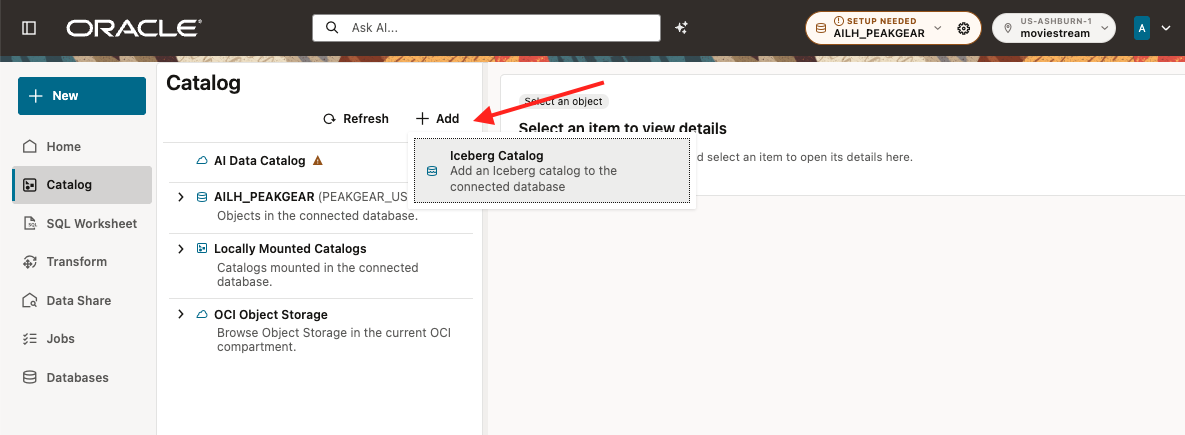
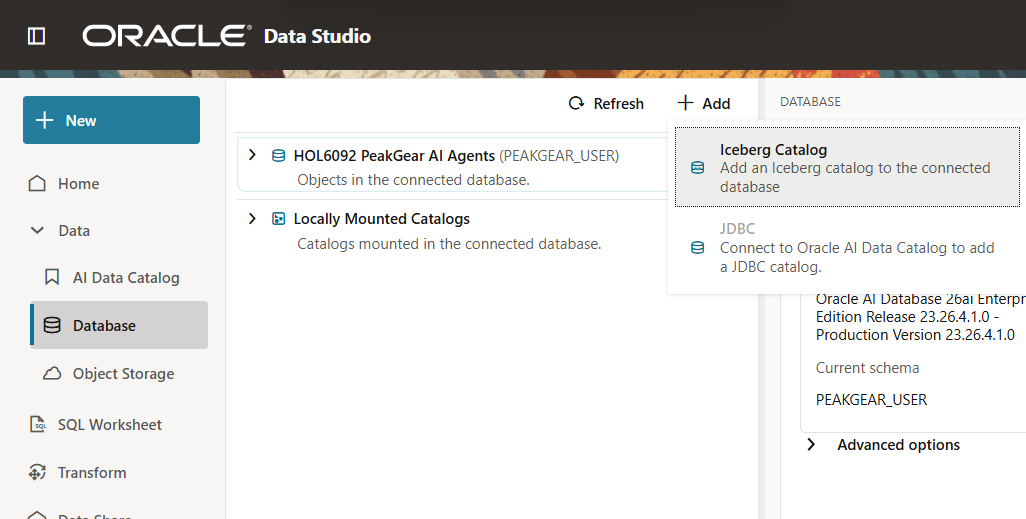
HOL6092: update Data Studio navigation and learner screenshots (#566)
HOL6092: align learner guide with current Data Studio UI

diff --git a/ai-over-lakehouse/documentation/tests/test_workshop_package.py b/ai-over-lakehouse/documentation/tests/test_workshop_package.py
@@ -243,7 +243,14 @@ class WorkshopPackageTests(unittest.TestCase):
     def test_source_connection_finishes_with_both_credentials_and_add(self):
         text = (ROOT / 'connect-sources/connect-sources.md').read_text(encoding="utf-8")
         self.assertIn('## Task 2: Connect the Databricks Unity Catalog', text)
-        self.assertIn('**Bucket credentials**. Click **Add**', text)
+        task = text.split('## Task 2: Connect the Databricks Unity Catalog', 1)[1]
+        task = task.split('### SQL reference', 1)[0]
+        self.assertIn('**Data**', task)
+        self.assertIn('**Add > Iceberg Catalog**', task)
+        self.assertIn('**Bucket credentials**. Click **Test**', task)
+        self.assertIn('before clicking **Add**', task)
+        self.assertIn('Object storage\ndata access was not tested', task)
+        self.assertIn("Task 3's sample queries verify data access", task)
         self.assertIn('**PeakGear - Live source checks**', text)
         self.assertIn('**PeakGear - Local snapshots**', text)
         self.assertIn('query data live where it already resides', text)

diff --git a/ai-over-lakehouse/documentation/tests/test_unity_sql_reference.py b/ai-over-lakehouse/documentation/tests/test_unity_sql_reference.py
@@ -75,7 +75,7 @@ class UnitySqlReferenceTests(unittest.TestCase):
             "wait for the worksheet's completion message",
             "Task 1",
             "sample queries in Task 3 confirm read access",
-            "After a timeout, inspect **Catalog**",
+            "After a timeout, inspect **Data > Database**",
             "Do not drop or unmount objects to force a retry",
         ):
             with self.subTest(phrase=phrase):

diff --git a/ai-over-lakehouse/connect-sources/connect-sources.md b/ai-over-lakehouse/connect-sources/connect-sources.md
@@ -50,11 +50,14 @@ lists the prepared names and public connection settings.
 
 ## Task 2: Connect the Databricks Unity Catalog
 
-In **Catalog**, click **Add**, then choose **Iceberg catalog**.
+In the left navigation, expand **Data**, select **Database**, then click
+**Add > Iceberg Catalog**. **Database** is the connected database's data
+browser; **Databases** is the separate page used to manage connections in Lab 1.
 
-![In Catalog, click Add and choose Iceberg catalog.](images/add-iceberg-catalog.png)
+![Data Studio Data > Database navigation with Add > Iceberg Catalog selected.](images/add-iceberg-catalog.png)
 
-Enter the public catalog settings and select the existing credentials:
+The form opens with defaults. Replace the example catalog name and type with
+the values below, enter the public endpoint, and select the existing credentials:
 
 | Field | Value |
 |---|---|
@@ -64,15 +67,32 @@ Enter the public catalog settings and select the existing credentials:
 | Iceberg catalog credentials | Select DBX&#95;PEAKGEAR&#95;OAUTH |
 | Bucket credentials | Select ADLS&#95;PEAKGEAR&#95;DATA |
 
-![Enter DBX&#95;UNITY&#95;PEAKGEAR, select Unity, paste the public endpoint, and select the provisioned catalog and bucket credentials.](images/mount-iceberg-catalog.png)
+![Add Iceberg Catalog form before configuration, showing the default name ICEBERG_CATALOG and type Oracle; replace these using the field table above.](images/mount-iceberg-catalog.png)
+
+The screenshot shows the form **before configuration**. For this workshop,
+use **DBX&#95;UNITY&#95;PEAKGEAR** and **Unity**, not the displayed defaults.
 
 Select DBX&#95;PEAKGEAR&#95;OAUTH in **Iceberg catalog credentials**, then select
-ADLS&#95;PEAKGEAR&#95;DATA in **Bucket credentials**. Click **Add**.
+ADLS&#95;PEAKGEAR&#95;DATA in **Bucket credentials**. Click **Test** and wait
+for the result before clicking **Add**.
+
+![Successful catalog metadata test with the notice that Object storage data access was not tested.](images/test-iceberg-catalog.png)
+
+The expected message is **Catalog metadata access test passed. Object storage
+data access was not tested.** This confirms access to catalog metadata, not
+to the underlying Iceberg files. Task 3's sample queries verify data access.
+If Test fails, keep the exact error and ask the instructor before adding the catalog.
+
+After a successful test, click **Add** and wait for the catalog to appear in
+**Data > Database**.
 Expand **Locally Mounted Catalogs > DBX&#95;UNITY&#95;PEAKGEAR > ICEBERG > Tables**.
 You should see **PRODUCTS** and **DIGITAL&#95;CLICKSTREAM&#95;EVENTS**. Use the
 catalog's **Refresh** button only if the new connection or tables are not yet visible.
 
-![The successful DBX&#95;UNITY&#95;PEAKGEAR mount exposes the two PeakGear Iceberg tables.](images/connected-iceberg-tables.png)
+![Data > Database shows a mounted catalog and the ICEBERG > Tables section containing two tables; the screenshot uses the example name ICEBERG_CATALOG.](images/connected-iceberg-tables.png)
+
+The screenshot's **ICEBERG&#95;CATALOG** is an example name. Your mount must be
+**DBX&#95;UNITY&#95;PEAKGEAR**, as entered above, so the SQL in Task 3 can find it.
 
 ### SQL reference (not part of the lab)
 
@@ -138,22 +158,33 @@ END;
 </copy>
 ~~~
 
-After the block completes, refresh **Locally Mounted Catalogs** in **Catalog**
+After the block completes, refresh **Locally Mounted Catalogs** in **Data > Database**
 if needed and confirm DBX&#95;UNITY&#95;PEAKGEAR contains
 **ICEBERG → Tables → PRODUCTS** and **DIGITAL&#95;CLICKSTREAM&#95;EVENTS**.
 The sample queries in Task 3 confirm read access. Continue there after a
 successful mount or an already-existing-catalog message.
 
 If a provisioned credential is missing or SQL reports an error, keep the exact
-message and ask the instructor. After a timeout, inspect **Catalog** before
+message and ask the instructor. After a timeout, inspect **Data > Database** before
 trying again: the mount may already have completed. Do not drop or unmount
 objects to force a retry.
 
 ## Task 3: Prove the two live sources
 
-Open SQL Worksheet as PEAKGEAR&#95;USER and save a worksheet named
-**PeakGear - Live source checks**. Copy and run **each block separately**;
-Run SQL executes the current statement, not every statement in a pasted script.
+Open **SQL Worksheet** as PEAKGEAR&#95;USER. In the **Worksheets** tab, click
+**New** if needed. Open the worksheet's three-dot menu, select **Rename**, enter
+**PeakGear - Live source checks**, then click the **Save** (disk) icon in the
+editor toolbar. Save again after adding your SQL.
+
+![Worksheet three-dot menu with Rename selected and the Save disk icon in the editor toolbar.](images/rename-worksheet.png)
+
+Copy and run **each block separately**. The editor detects separate SQL
+statements and shows a triangular **Run SQL** button in the left gutter beside
+each one. Click the triangle beside the statement you want to execute, then
+wait for its **Query Result** before running the next. Multiple statements in
+the editor are not all executed by one statement's Run SQL button.
+
+![SQL Worksheet shows a separate Run SQL triangle beside each independent SQL statement.](images/run-sql-statement.png)
 
 ~~~sql
 <copy>
@@ -185,12 +216,13 @@ should contain data; if a query returns no rows or an error, ask the instructor
 to check the source before continuing. A sample does not prove product-key
 uniqueness; that check runs against the local product table before analytics.
 
-Create and save a second worksheet named **PeakGear - Local snapshots**.
+In **Worksheets**, click **New** and use the same **Rename** and **Save** steps
+to create a second worksheet named **PeakGear - Local snapshots**.
 Create the three raw, participant-owned tables by running
 **each block separately**. Each `CREATE TABLE AS SELECT` can take time while it
 copies source rows. Wait for the worksheet to report completion before starting
 the next block. If you are resuming on the same database and a table already
-exists, verify it in Catalog instead of recreating it. Do not replace a table
+exists, verify it in **Data Explorer** instead of recreating it. Do not replace a table
 after saving its annotations in Lab 4. If an older run left `*_RAW_V` views in
 the schema, leave them alone; this version uses the new `*_RAW_T` tables and
 requires fresh table annotations in Lab 4.
@@ -227,10 +259,17 @@ FROM customer_return_events@peakgear_operations_link;
 </copy>
 ~~~
 
-In Catalog, check **Tables** under PEAKGEAR&#95;USER for all three names. The
-tables are local copies at the time the statements ran; they do not refresh
-automatically. They do not yet add business definitions. Open **Sample Data**
-for each table and confirm that rows are present after creation completes.
+In SQL Worksheet, open the **Data Explorer** tab beside **Worksheets**. Set
+**Source** to **Database**, expand your connected database, then expand
+**PEAKGEAR&#95;USER > Tables**. Confirm that all three table names appear; use
+the **Refresh** icon if the list has not updated after creation.
+
+![SQL Worksheet Data Explorer with Source set to Database and all three local raw tables under PEAKGEAR_USER > Tables.](images/local-snapshot-tables.png)
+
+The tables are local copies at the time the statements ran; they do not refresh
+automatically. They do not yet add business definitions. In **Data > Database**,
+expand your database and **PEAKGEAR&#95;USER > Tables**, open each table's
+**Sample Data**, and confirm that rows are present after creation completes.
 Later labs use these local snapshots through Data Studio and the bounded MCP
 server. Before joining product labels, MCP checks the local product table for
 duplicate product keys. If duplicates are reported, ask the instructor to

diff --git a/ai-over-lakehouse/documentation/traceability.md b/ai-over-lakehouse/documentation/traceability.md
@@ -13,6 +13,7 @@ Trace workshop content and screenshots to retained sources and record outstandin
 | PeakGear lab source files | Technical sequence, object names, SQL, MCP checkpoints, and runtime gates. |
 | Owner-confirmed working Unity mount SQL, supplied October 5, 2026 | Original source for the public catalog endpoint and mount/read calls. The current learner flow reuses provisioned credentials. Protected values and the host ACL belong to provider provisioning; the learner mount stays under PEAKGEAR_USER. |
 | Owner-confirmed default provisioning, November 4, 2026 | Source credentials are prepared before the learner starts; Lab 2 selects existing names. Fresh-reservation validation remains a provider release check. |
+| Valentina Feruere, Re: Review HOL Issue LH Summit, November 9, 2026; corrections ZIP and original screenshots | Execution-result wording in Lab 1; current Data > Database navigation, Test-before-Add, worksheet controls, and Data Explorer in Lab 2. These supplied UI examples are not a new end-to-end execution. |
 | Owner-supplied LiveLabs Reservation Information screenshots, October 6, 2026 | OCI versus database credential fields and prepared environment details. Illustrative values only; the database password is redacted. |
 | Owner-supplied Data Studio screenshots, October 8, 2026 | Lab 4 local-table Catalog, AI Enrichment entry and review, and saved annotations. Unmodified UI examples; Task 2 defines the reviewed contract, not the example's AI suggestions. |
 | Participant-authorized Data Studio and Codex sessions | UI screenshots captured during the working dry run. |
@@ -23,8 +24,8 @@ Source credentials are now created during private provisioning; learners
 select their saved names. Only the participant database login values come
 from LiveLabs View Login Info.
 The OAuth credential screenshot was withdrawn because it displayed a concrete
-client ID. The remaining mount screenshot shows only the public endpoint and
-credential aliases. No source-data export, ADMIN login, or OCI API private key
+client ID. The current mount screenshot shows an unconfigured form; the field
+table supplies the public endpoint and credential aliases. No source-data export, ADMIN login, or OCI API private key
 is added to the package.
 
 ## Captured screenshots
@@ -33,9 +34,13 @@ is added to the package.
 |---|---|---:|---|
 | 1.1 | connect-sources/images/azure-credential-start.png | 2, historical | Credential creation; retained for provenance, no longer embedded in the learner flow |
 | 1.2 | connect-sources/images/create-azure-storage-credential.png | 2, historical | Azure credential creation; retained for provenance, no longer embedded in the learner flow |
-| 2.1 | connect-sources/images/add-iceberg-catalog.png | 2 | Catalog Add menu and Iceberg catalog choice |
-| 2.2 | connect-sources/images/mount-iceberg-catalog.png | 2 | Unity mount form, approved workspace endpoint visible |
-| 3 | connect-sources/images/connected-iceberg-tables.png | 2 | Mounted catalog exposes the two Iceberg tables |
+| Screenshot 2026-11-09 182001.png | connect-sources/images/add-iceberg-catalog.png | 2 | Data > Database > Add > Iceberg Catalog; original screenshot supplied by Valentina |
+| Screenshot 2026-11-09 182013.png | connect-sources/images/mount-iceberg-catalog.png | 2 | Unconfigured form with example name ICEBERG_CATALOG and default type Oracle; caption explicitly requires the workshop's DBX_UNITY_PEAKGEAR and Unity |
+| Screenshot 2026-11-09 174808.png | connect-sources/images/test-iceberg-catalog.png | 2 | Catalog metadata access passed; Object Storage data access was not tested |
+| Screenshot 2026-11-09 174839.png | connect-sources/images/connected-iceberg-tables.png | 2 | Example ICEBERG_CATALOG mount and ICEBERG > Tables with count 2; caption requires the workshop mount name and expanding Tables |
+| Screenshot 2026-11-05 122922.png | connect-sources/images/run-sql-statement.png | 2 | Separate Run SQL gutter buttons beside individual statements |
+| Screenshot 2026-11-09 175132.png | connect-sources/images/rename-worksheet.png | 2 | Worksheets > three-dot menu > Rename; Save disk icon in toolbar |
+| Screenshot 2026-11-05 123530.png | connect-sources/images/local-snapshot-tables.png | 2 | SQL Worksheet > Data Explorer > Database > PEAKGEAR_USER > Tables shows all three local raw tables |
 | Reservation Information | connect-peakgear/images/livelabs-reservation-information.png | 1 | OCI Login Credentials with UI-masked password, Launch OCI, tenancy, region, and compartment; example reservation only |
 | Environment Details | connect-peakgear/images/livelabs-environment-details.png | 1 | Password-redacted illustration of assigned database user, name, profile, and Operations link |
 | Screenshot 2026-10-08 at 4.18.31 PM | ai-enrichment/images/local-table-catalog.png | 4 | Catalog > PEAKGEAR_USER > Tables lists all three local raw tables |
@@ -69,11 +74,16 @@ is added to the package.
   identity before publishing externally.
 * Each Markdown image has descriptive alt text.
 * Lab 4 screenshots are unmodified and contain no visible passwords or tokens.
+  They show the older Catalog navigation; the learner text maps this to the
+  current Data > Database path until new AI Enrichment captures are available.
   Their database labels are examples. The review and saved screenshots do not
   prove fresh AI generation, an ALTER TABLE target check, or completion of the
   exact Task 2 contract; learner captions preserve these evidence boundaries.
 * The old default-ai-profile.png remains a historical asset, not the current
   learner reference: profile names must come from the reservation.
+* The November 9 Lab 2 screenshots are unmodified originals from the email.
+  They show no passwords, client IDs, or tokens. Default form values and the
+  example mounted-catalog name are explicitly distinguished from lab settings.
 
 ## Reservation illustration edit provenance
 

diff --git a/ai-over-lakehouse/ai-enrichment/ai-enrichment.md b/ai-over-lakehouse/ai-enrichment/ai-enrichment.md
@@ -29,10 +29,11 @@ same Codex task open while editing the metadata in Data Studio.
 
 The default AI profile is already prepared for this exercise.
 
-1. Open **Catalog**.
-2. Open the PEAKGEAR&#95;USER schema, then **Tables**. You should see the three
+1. In the left navigation, expand **Data** and open **Database**.
+2. Expand your connected database and the PEAKGEAR&#95;USER schema, then **Tables**. You should see the three
     local tables created in Lab 2. The database label in the screenshots is an
-    example; use your reservation's database.
+    example; use your reservation's database. The older screenshots label this
+    browser **Catalog**; in the current navigation, it is **Data > Database**.
 
     ![Data Studio Catalog lists the three PeakGear local raw tables under PEAKGEAR_USER > Tables](images/local-table-catalog.png)
 
@@ -53,7 +54,7 @@ profile before continuing. See **Need Help?** for the information to include
 in your support request.
 
 Task 2 provides the definitions for all three tables. Save the digital table
-first, then repeat the same **Catalog > Tables > AI Enrichment** flow for
+first, then repeat the same **Data > Database > PEAKGEAR&#95;USER > Tables > AI Enrichment** flow for
 LAB&#95;PRODUCTS&#95;RAW&#95;T and LAB&#95;RETURNS&#95;RAW&#95;T. Each table needs its own **Save**.
 
 Check that the enrichment dialog names the table you selected. Before saving,
@@ -141,13 +142,13 @@ For each table, follow this Save sequence:
 
 Annotations may appear gradually while Save is running. After all three saves,
 use Task 3 to verify the saved business context. If Save reports a connection
-error, refresh Catalog and perform that same verification before retrying;
+error, refresh **Data > Database** and perform that same verification before retrying;
 the operation may have saved only part of the metadata. A changed table
 description alone does not confirm a complete save.
 
 ### Product catalog
 
-In **Catalog**, open LAB&#95;PRODUCTS&#95;RAW&#95;T and click **AI Enrichment**. Review
+In **Data > Database**, open LAB&#95;PRODUCTS&#95;RAW&#95;T and click **AI Enrichment**. Review
 and check these business definitions. Keep accurate generated content; add or
 correct only what is missing. Example tags are optional:
 
@@ -162,7 +163,7 @@ Click **Save** before moving to the next table.
 
 ### Operational returns
 
-In **Catalog**, open LAB&#95;RETURNS&#95;RAW&#95;T and click **AI Enrichment**. Review
+In **Data > Database**, open LAB&#95;RETURNS&#95;RAW&#95;T and click **AI Enrichment**. Review
 and check these business definitions. Keep accurate generated content; add or
 correct only what is missing. Example tags are optional:
 
@@ -178,8 +179,8 @@ Click **Save**. All three tables must be saved before Task 3.
 
 ## Task 3: Verify the saved annotations
 
-After all three Save operations have finished, reopen each table in Catalog.
-Confirm that the edits you made are present in Catalog. Check the meanings,
+After all three Save operations have finished, reopen each table in **Data > Database**.
+Confirm that the edits you made are present in **Overview**. Check the meanings,
 not an exact match to the example wording or tag names:
 
 * Digital interest counts product-linked events, not sales or unique customers.
@@ -283,4 +284,4 @@ again.
 ## Acknowledgements
 
 * **Author** - Oracle AI Lakehouse workshop team
-* **Last Updated By/Date** - Oracle AI Lakehouse workshop team, October 2026
+* **Last Updated By/Date** - Oracle AI Lakehouse workshop team, November 2026

diff --git a/ai-over-lakehouse/documentation/author-review.md b/ai-over-lakehouse/documentation/author-review.md
@@ -55,10 +55,17 @@ participant to create, edit, or validate an AI profile.
   each missing credential, and an existing mount. Credential checks must run
   before mounting; an existing mount remains intact. Neither SQL reference
   creates, replaces, refreshes, or deletes credentials. After a timeout,
-  inspect Catalog before retrying.
-- [ ] The catalog form explicitly selects both credentials before Add; expanding
-  the connected catalog exposes tables without a mandatory extra refresh.
+  inspect Data > Database before retrying.
+- [ ] Data > Database > Add > Iceberg Catalog matches the current navigation.
+  The form's default name/type are replaced with DBX_UNITY_PEAKGEAR and Unity.
+  Both provisioned credentials are selected before Test, then Add. Test success
+  is described as catalog metadata access only; sample SELECTs prove file access.
+  Expanding the connected catalog exposes tables without a mandatory extra refresh.
 - [ ] Save separate, named live-source-check and local-snapshot worksheets.
+  Follow Worksheets > three-dot menu > Rename, then the Save disk icon. Each
+  gutter Run SQL triangle executes its own statement; wait for its result.
+  Confirm all three snapshot names in SQL Worksheet > Data Explorer > Database
+  > PEAKGEAR_USER > Tables, and confirm sample rows in Data > Database.
   Explain live federation versus optional local copies for performance/enrichment.
 - [ ] `PRODUCTS` and `DIGITAL_CLICKSTREAM_EVENTS` return real rows.
 - [ ] Lab 2 reads up to five rows from each remote source before local raw-table
@@ -72,7 +79,8 @@ participant to create, edit, or validate an AI profile.
 - [ ] The raw question receives an appropriately cautious answer.
 - [ ] Lab 4 saves reviewed descriptions and tags for all three raw tables,
   including the product-name and join-key column definitions; the metadata is
-  visible in Catalog.
+  visible in Data > Database > table > Overview. Older Lab 4 screenshots are
+  explicitly labelled as using the earlier Catalog navigation.
 - [ ] Useful generated descriptions/tags remain. Only incorrect or missing
   business rules are edited; arbitrary tag-name equality or 28 annotation rows
   are not pass criteria. Verify the simple ranking and AV workflow with these
@@ -133,10 +141,11 @@ participant to create, edit, or validate an AI profile.
 * Do not publish passwords, SAS tokens, concrete Databricks client IDs, client
   secrets, or private keys in text, SQL, screenshots, or the Starter Kit ZIP.
   Run the offline credential regression checks before publishing.
-* Verify View Login Info exposes all three Lab 2 protected fields. The backend
-  update is external to this PR. Service owners must revoke/rotate previously
-  exposed credentials and audit access; a new reservation must then complete
-  Lab 2 with the replacement values. Removing files does not purge Git history.
+* Verify both source credentials are provisioned for PEAKGEAR_USER and selectable
+  in the catalog form; learners must not need source secrets from View Login Info.
+  Service owners must revoke/rotate previously exposed credentials and audit
+  access; a new reservation must complete Lab 2 using the prepared credentials.
+  Removing files does not purge Git history.
 * Participant database passwords come only from the active LiveLabs reservation.
   The legacy provider SQL is not a learner step or a source of the live password.
 

diff --git a/ai-over-lakehouse/need-help/need-help-freetier.md b/ai-over-lakehouse/need-help/need-help-freetier.md
@@ -83,7 +83,8 @@ If AI Enrichment reports invalid or missing column tags, retain the exact
 message and selected table name for the instructor. The instructor verifies
 the provisioned AI profile; restarting local MCP does not repair enrichment.
 Keep the dialog's existing data until the error is understood. After a save
-timeout or connection error, check Catalog for your edits before retrying:
+timeout or connection error, reopen the table in **Data > Database** and check
+its **Overview** for your edits before retrying:
 some annotations may already have been saved.
 
 ## How to Format Your Support Email Request
@@ -114,4 +115,4 @@ the steps you tried and whether the error occurred again on retry.
 ## Acknowledgements
 
 * **Author** - Oracle AI Lakehouse workshop team
-* **Last Updated By/Date** - Oracle AI Lakehouse workshop team, October 2026
+* **Last Updated By/Date** - Oracle AI Lakehouse workshop team, November 2026

diff --git a/ai-over-lakehouse/connect-peakgear/connect-peakgear.md b/ai-over-lakehouse/connect-peakgear/connect-peakgear.md
@@ -86,8 +86,9 @@ the screenshots.
     </copy>
     ~~~
 
-    Both values must be PEAKGEAR&#95;USER. Also check the connected database
-    name in the header against your reservation.
+    Both values **in the execution result** must be PEAKGEAR&#95;USER. Check
+    the **Query Result** tab, not just the username shown above the editor.
+    Also check the connected database name in the header against your reservation.
 
     The AI profile is already provisioned. If needed, review **Database Settings
     → AI Profiles** to find the **AI Profile Name** from your reservation; an
